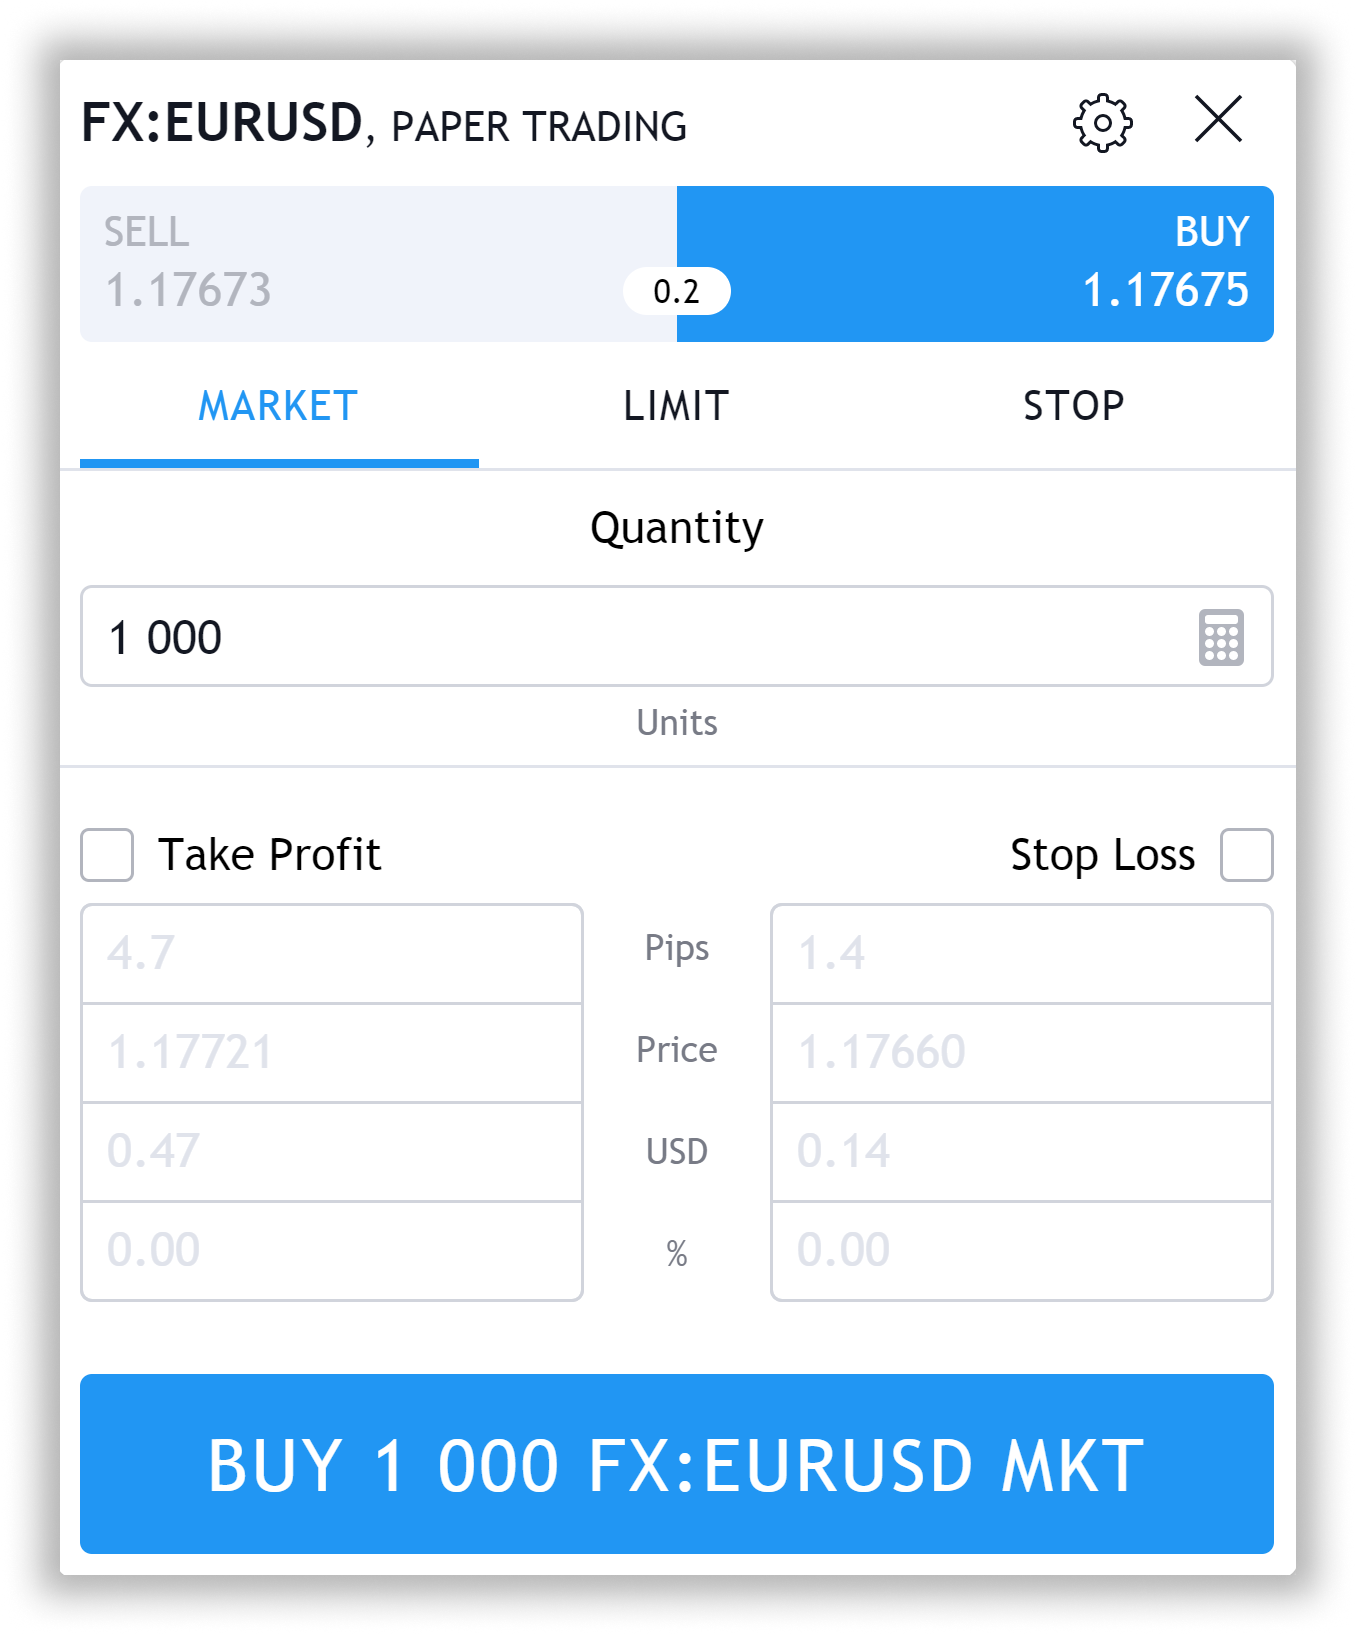
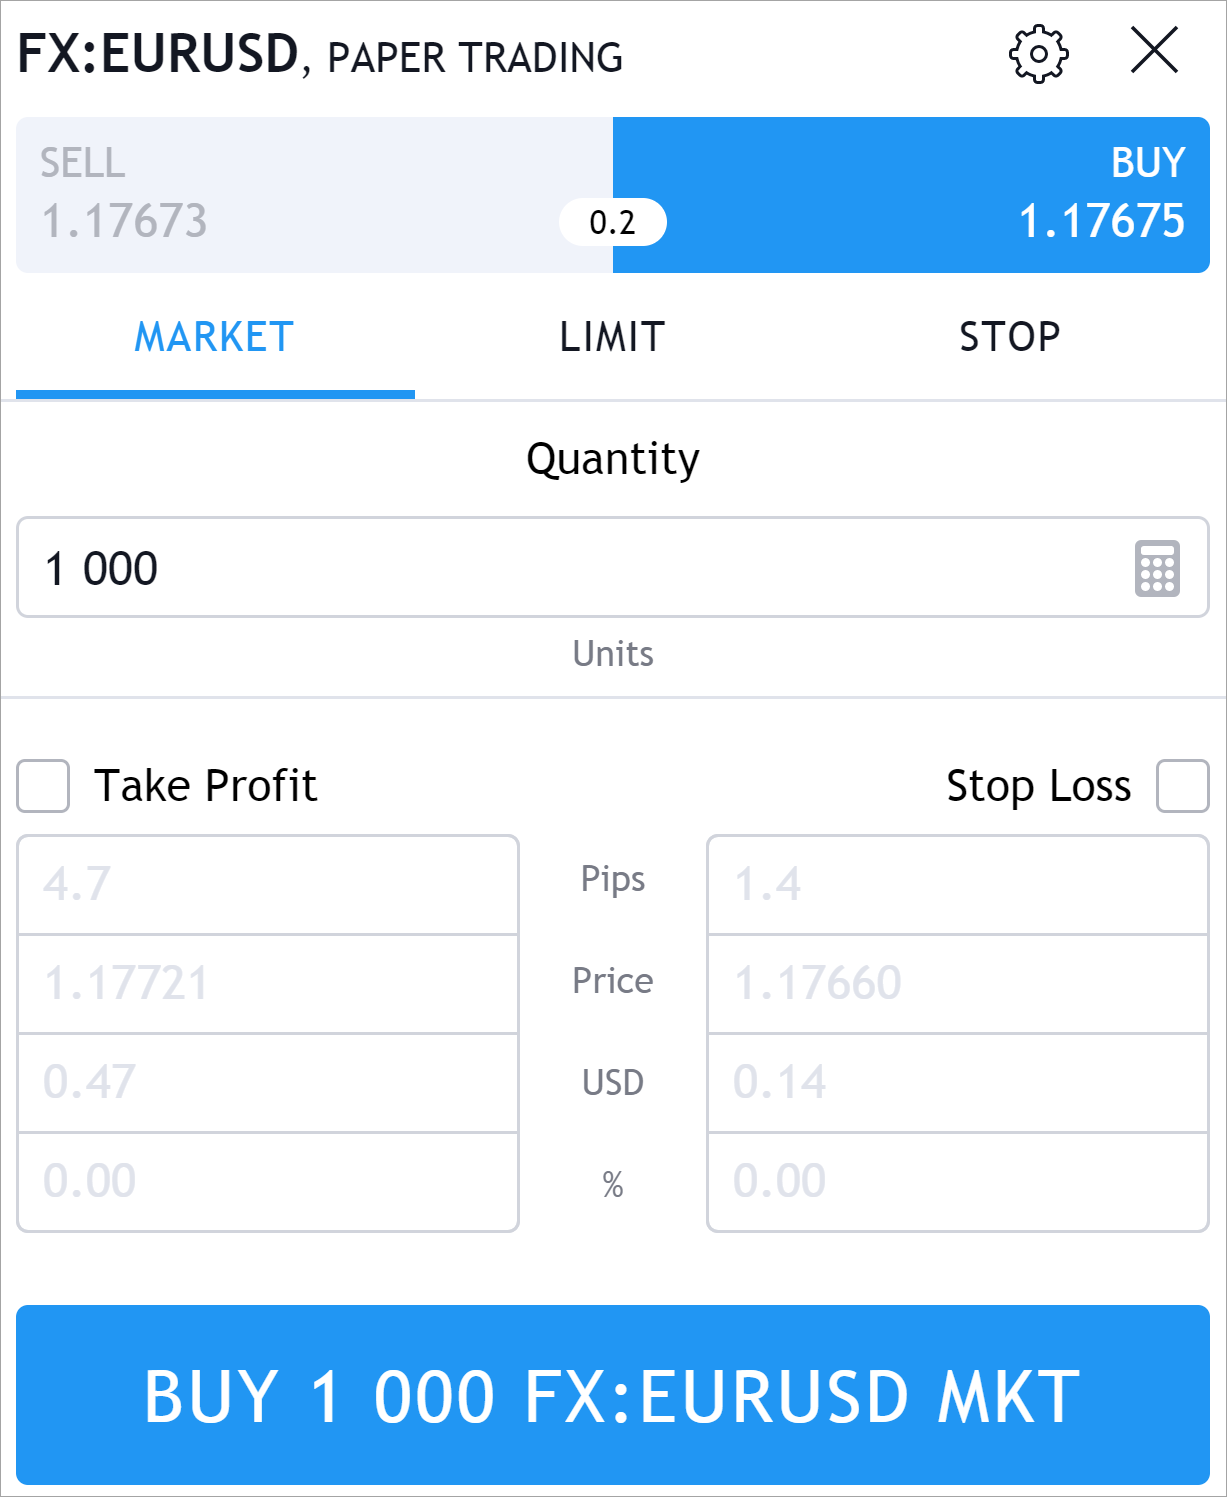
WRT-453 Add screenshots (#44)
* WRT-453 Add screenshots

* WRT-453 Remove scale

* WRT-453: Apply suggestions from code review

* WRT-453: Move section

* WRT-453: Apply changes after review

* WRT-453: Apply suggestions from code review

* WRT-453: Fix wording

* WRT-453: Remove comma

---------

diff --git a/source/trading/UI_elements.rst b/source/trading/UI_elements.rst
@@ -16,8 +16,13 @@ UI elements
 
 Account Summary Row
 ...................
-The *Account Summary Row* is a line that is always displayed after login into the integration. It contains the most 
-important information about the current state of the sub-account currently selected by the user. 
+
+*Account Summary Row* is a line that is always displayed after login into the integration. It contains the most
+important information about the current state of the selected sub-account.
+
+.. image:: ../../images/Trading_UiElements_AccountSummaryRow.png
+   :alt: Account Summary Row
+   :align: center
 
 By default, *Account Summary Row* displays the values of the `/state`_ request into three fields:
 
@@ -78,22 +83,26 @@ For custom configuration of the *Account Summary Row* follow the steps below.
    the account level. The account level setting has a higher priority and will be applied if there is a configuration at
    both levels.
 #. Set up ``accountSummaryRowData`` object in the `/state`_ to configure the *Account Summary Row* fields.
-#. In the `/state`_ request in the ``accountSummaryRowData`` object, send the values for *Account Summary Row*. 
+#. In the `/state`_ request in the ``accountSummaryRowData`` object, send the values for *Account Summary Row*.
    The order and size of the sent array must match the order and size of the array specified in the configuration.
 
-If the display area of the *Account Summary Row* is undersized, the elements will be hidden sequentially, 
-starting with the very first. This can happen on low-resolution screens. Therefore, arrange information in order of 
+If the display area of the *Account Summary Row* is undersized, the elements will be hidden sequentially,
+starting with the very first. This can happen on low-resolution screens. Therefore, arrange information in order of
 increasing importance.
 
 Account Summary Tab
 ...................
-The *Account Summary Tab* displays the fields received by `/state`_ request as a set of tables. Only one 
-table is displayed, by default. It uses the fields ``balance``, ``unrealizedPL``, and ``equity`` (if sent, the field 
-is optional).
+
+*Account Summary Tab* displays fields received by the `/state`_ request as a set of tables. Only one
+table is displayed by default. It uses the ``balance``, ``unrealizedPL``, and ``equity`` (optional) fields.
+
+.. image:: ../../images/Trading_UiElements_AccountSummaryTab.png
+   :alt: Account Summary Tab
+   :align: center
 
 The information displayed in the *Account Summary Tab* can be flexibly configured at the broker or sub-account level.
-The settings made at the broker level will be displayed the same for all sub-accounts. Setting at the sub-account level 
-will allow displaying information for the account selected by the user, and the information may be different for 
+The settings made at the broker level will be displayed the same for all sub-accounts. Setting at the sub-account level
+will allow displaying information for the account selected by the user, and the information may be different for
 different sub-accounts.
 
 * At the broker level, the ``accountManager`` object is returned in the `/config`_ request.
@@ -101,8 +110,8 @@ different sub-accounts.
 
 In both cases, it contains an array of table objects. The columns of the table are defined within each such array.
 
-Regardless of the configuration level, values for the tables are returned in the `/state`_ query in the ``amData`` 
-object. The ``amData`` object is an array of tables. It contains a nested array of strings with a nested array of 
+Regardless of the configuration level, values for the tables are returned in the `/state`_ query in the ``amData``
+object. The ``amData`` object is an array of tables. It contains a nested array of strings with a nested array of
 columns as string values. This object must be the same size as the object defined in the configuration.
 
 .. _trading-ui-orderticket:
@@ -111,7 +120,7 @@ Order Ticket
 ............
 
 .. tip::
-   
+
    Purchase behavior:
 
    * There is a :term:`Short Position` and we set a trailing stop to buy.
@@ -137,7 +146,7 @@ Order Preview
 ~~~~~~~~~~~~~~
 
 To show users additional order details without modifying or placing orders,
-you can implement the `/previewOrder`_ endpoint. 
+you can implement the `/previewOrder`_ endpoint.
 For example, you can display the estimated order cost, commission, and expiry date,
 as well as any warning or error messages in the *Order confirmation* dialog.
 
@@ -192,22 +201,22 @@ By default :term:`DOM` widget in the UI is enabled. If you wish to hide it, set 
 
 .. _trading-ui-accountmanager:
 
-..
 Account Manager
 ...............
 
-*Account manager* is a panel on the bottom of the screen. This panel can have multiple tables. The *Account Manager* 
-can be configured both at the broker configuration level and for each individual sub-account separately. You should use 
-one of these options.
-
-* At the broker level use `/config`_ → ``d`` → ``accountManager``.
-* At the sub-account level use `/accounts`_ → ``d`` → ``ui`` → ``accountManager``.
-
-But the data for the *Account manager* in any case is sent to `/state`_ → ``d`` → ``amData``
+*Account Manager* is a panel at the bottom of the screen. This panel can have multiple tabs.
 
 .. image:: ../../images/Trading_UiElements_AccountManager.png
    :alt: Account Manager
    :align: center
+
+You can configure *Account Manager* at the broker configuration level and for each sub-account separately. To do this, you should use
+one of these options.
+
+* At the broker level, use `/config`_ → ``d`` → ``accountManager``.
+* At the sub-account level, use `/accounts`_ → ``d`` → ``ui`` → ``accountManager``.
+
+Note that the data for *Account Manager* in any case is sent to `/state`_ → ``d`` → ``amData``
 
 .. Orders table
 .. ~~~~~~~~~~~~

diff --git a/source/data/Symbol_info.rst b/source/data/Symbol_info.rst
@@ -9,13 +9,21 @@ Symbol info
 The `/symbol_info`_ endpoint returns a list of instruments and a set of rules for them.
 This endpoint is requested every hour.
 
+Information that `/symbol_info`_ returns is displayed in the *Symbol Info* dialog.
+
+.. image:: ../../images/Data_SymbolInfo_SymbolInfoDialog.png
+   :alt: Symbol Info Dialog
+   :align: center
+
+A symbol name, description, type, and exchange name are also displayed in the *Symbol Search* panel and a chart legend.
+
 Response fields
 ................
 
 The response body (JSON) must include an ``s`` field.
 The response header must include the ``Content-Type`` header with the ``application/json`` value.
 
-A ``symbol`` field is an array of strings. Each array item represents the name of the symbol that users will see. It must be unique. Symbol 
+A ``symbol`` field is an array of strings. Each array item represents the name of the symbol that users will see. It must be unique. Symbol
 names are always displayed in uppercase. The symbol name is validated with a regex:
 
 .. code-block:: none
@@ -73,7 +81,7 @@ Forex
 |                                       |                                            |
 |                                       | ``USDGBP`` — US Dollar to British Pound    |
 +---------------------------------------+--------------------------------------------+
-	
+
 Futures
 ~~~~~~~~
 
@@ -154,7 +162,7 @@ The corresponding examples are added below:
 .. code-block:: cfg
 
 	BTCUSD            // Bitcoin / US Dollar crypto pair
-	BTCUSDT.3L        // Bitcoin 3× Long 
+	BTCUSDT.3L        // Bitcoin 3× Long
 	BTCUSDT.3S        // BTC 3× Short
 	BTCUSDT.P         // Bitcoin perpetual swap contract
 	ETHUSD_7380E1     // Ethereum / BTCB on BSC in US Dollar
@@ -169,12 +177,12 @@ To manage how the price is displayed on the chart, use the following parameters 
 -  ``pricescale`` indicates how many decimal places a security price has.
 -  ``minmovement2`` indicates the pip size for Forex prices or how to separate the main and additional fractions for fractional prices.
 
-The parameter values depend on the price format chosen. 
+The parameter values depend on the price format chosen.
 There are two ways to display a security price:
 
 -  The `decimal <#decimal-format>`__ format is used for most instruments, such as stocks, indices, and futures.
--  The `fractional <#fractional-format>`__ format is used only for futures traded on the CBOT (Chicago Board of Trade), 
-   including futures on bulk commodities (grains, etc.) and US Federal Reserve Government bonds. 
+-  The `fractional <#fractional-format>`__ format is used only for futures traded on the CBOT (Chicago Board of Trade),
+   including futures on bulk commodities (grains, etc.) and US Federal Reserve Government bonds.
    This format also has a variety — that is a fractional format of the fractional price.
 
 Decimal format
@@ -183,9 +191,9 @@ Decimal format
 For the decimal format:
 
 -  The ``minmovement`` value depends on the price tick chosen: 1, 5, etc.
--  The ``pricescale`` value must always be ``10^n``, where *n* is the number of decimal places. 
-   For example, if the price has two decimal places ``300.01``, ``pricescale`` must be ``100``. 
-   If it has three decimal places ``300.001``, ``pricescale`` must be ``1000``, etc. 
+-  The ``pricescale`` value must always be ``10^n``, where *n* is the number of decimal places.
+   For example, if the price has two decimal places ``300.01``, ``pricescale`` must be ``100``.
+   If it has three decimal places ``300.001``, ``pricescale`` must be ``1000``, etc.
    If the price doesn't have decimals, ``pricescale`` must be ``1``.
 -  The ``minmovement2`` value must always be ``0``, except for `Forex symbols <#forex-symbols>`__.
 
@@ -193,7 +201,7 @@ Forex symbols
 ^^^^^^^^^^^^^
 
 Forex symbols have the decimal price format, however, the ``minmovement2`` value must differ from ``0``.
-In this case, ``minmovement2`` indicates the pip size on the chart and the value must be ``10^n``, where ``n`` is the number of pips. 
+In this case, ``minmovement2`` indicates the pip size on the chart and the value must be ``10^n``, where ``n`` is the number of pips.
 A pip is the smallest whole unit measurement of the spread.
 On the chart, the pip is displayed smaller than the price digits.
 
@@ -222,7 +230,7 @@ For the fractional format:
 Fractional format of the fractional price
 ^^^^^^^^^^^^^^^^^^^^^^^^^^^^^^^^^^^^^^^^^^
 
-The fractional format of the fractional price is a particular case of the fractional price format. 
+The fractional format of the fractional price is a particular case of the fractional price format.
 In this case, ``minmovement2`` indicates the part of the fraction and can differ from ``0``.
 
 For example, for the ``76'27'2`` price: 76 is an integral part of the price, 27 is a fractional part of the price,
@@ -232,7 +240,7 @@ To display such a price, you can specify the parameters in the following way: ``
 Tick size
 ...........
 
-Tick size (minimum price step) is the minimum price amount a security can move in exchange. 
+Tick size (minimum price step) is the minimum price amount a security can move in exchange.
 The tick size is calculated as ``minmovement``/ ``pricescale``.
 For example, if you need a price step to be ``0.25``:
 

diff --git a/source/data/Session_specification.rst b/source/data/Session_specification.rst
@@ -4,7 +4,12 @@
 Session specification
 ---------------------
 
-The session allows you to set a weekly trading schedule, with an accuracy up to a specific day of the week.
+A session allows you to set a weekly trading schedule with an accuracy up to a specific day of the week.
+Session information is displayed in the *Symbol Info* dialog.
+
+.. image:: ../../images/Data_SessionSpecification_Session.png
+   :alt: Session information
+   :align: center
 
 How to set session boundaries
 ..............................
@@ -28,7 +33,7 @@ Session boundaries are specified by several parameters in the `/symbol_info`_.
 |                        | The end time equal the end time of ``session-postmarket``.                             |
 +------------------------+----------------------------------------------------------------------------------------+
 
-.. note:: 
+.. note::
   Session time must be accurate to the minute, however, the last minute is not included in the session on the TradingView side.
   For example, if you specify that the session closes at ``23:59``, the last trade time included in TradingView will be ``23:58:59``.
 
@@ -37,12 +42,12 @@ How to use
 
 Here are some examples:
 
-* Session 24/7, UTC timezone: first bar of the day opens at 00:00 UTC. The daily bar closes at 23:59 UTC every day, 
+* Session 24/7, UTC timezone: first bar of the day opens at 00:00 UTC. The daily bar closes at 23:59 UTC every day,
   including Saturday and Sunday.
 * Session ``0930-1600``, UTC timezone: bars open at 09:30 UTC, closing at 16:00 UTC every weekday.
 * Session ``0930-1600`` New York timezone: bars open at 09:30 and close at 16:00 New York time every weekday.
 * Session ``1800-1700``, London timezone: overnight session, interim bars to be cut from Sunday 18:00 London time.
-* Session ``0900-1700:1|1000-1700:2|1100-1700:34567``, where *1* is Sunday, *2* is Monday, etc.: Separate session 
+* Session ``0900-1700:1|1000-1700:2|1100-1700:34567``, where *1* is Sunday, *2* is Monday, etc.: Separate session
   for each day. It is important that the schedule doesn\'t overlap.
 
 .. code-block:: json
